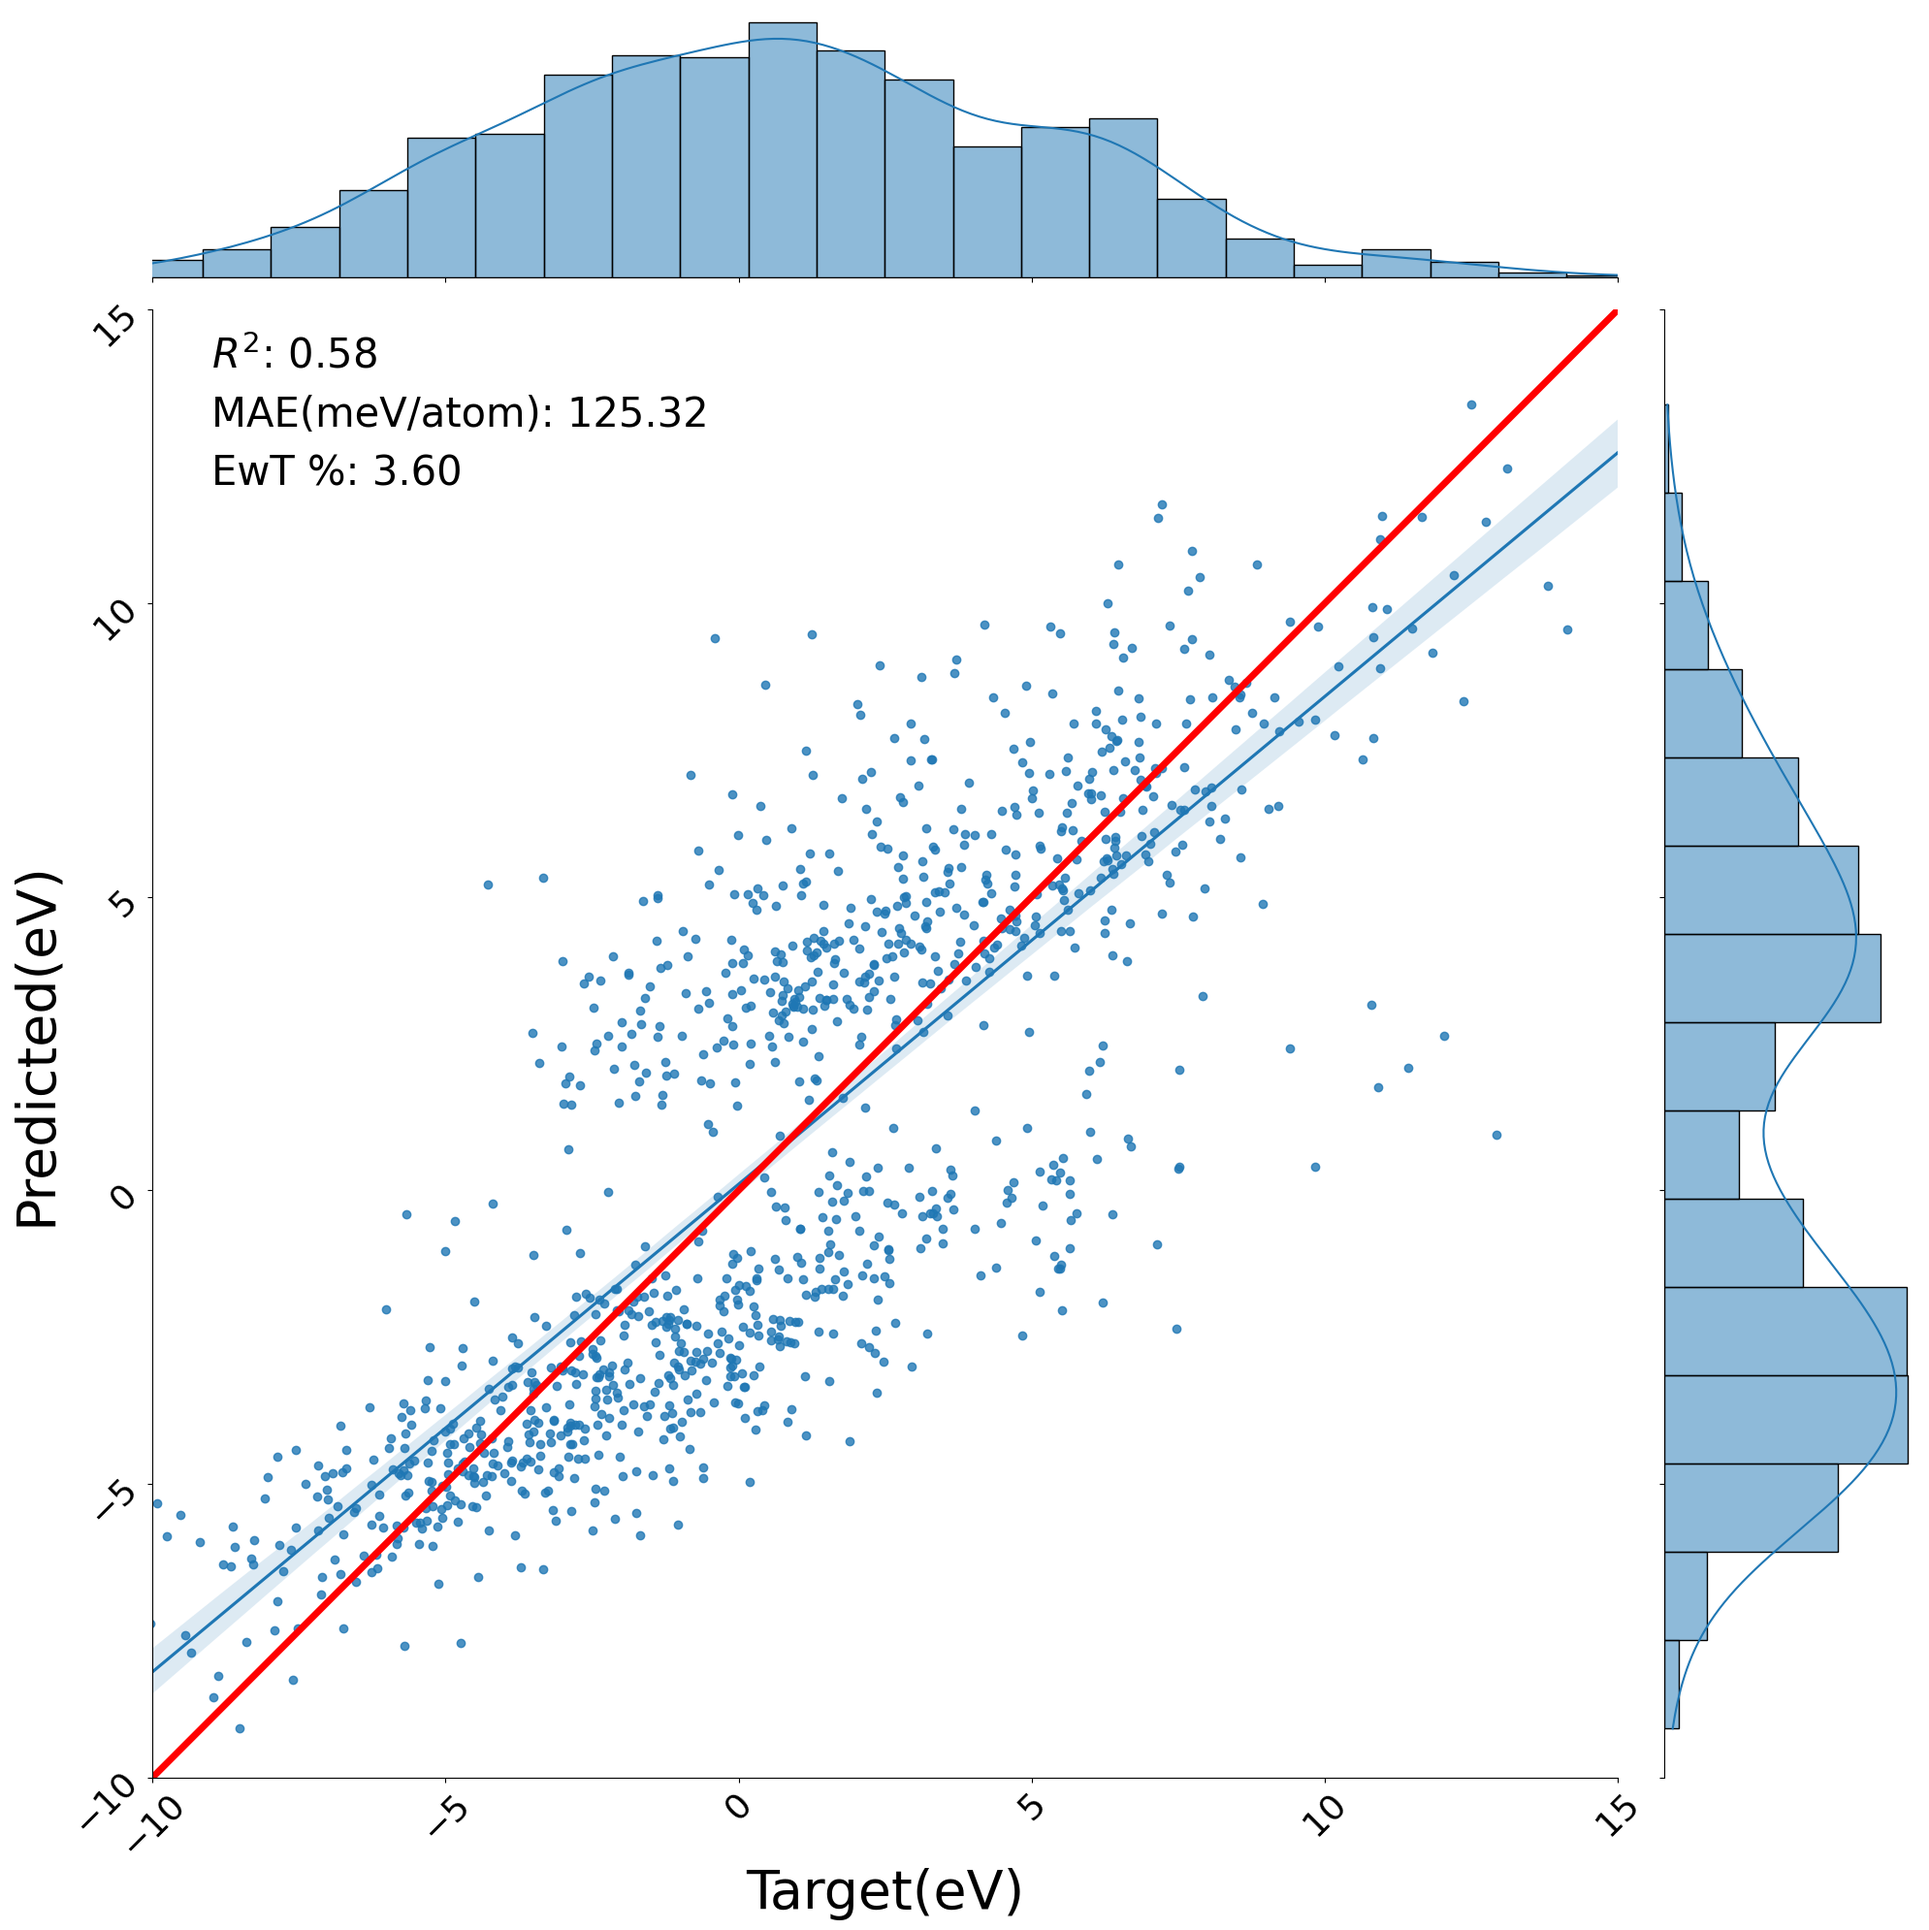
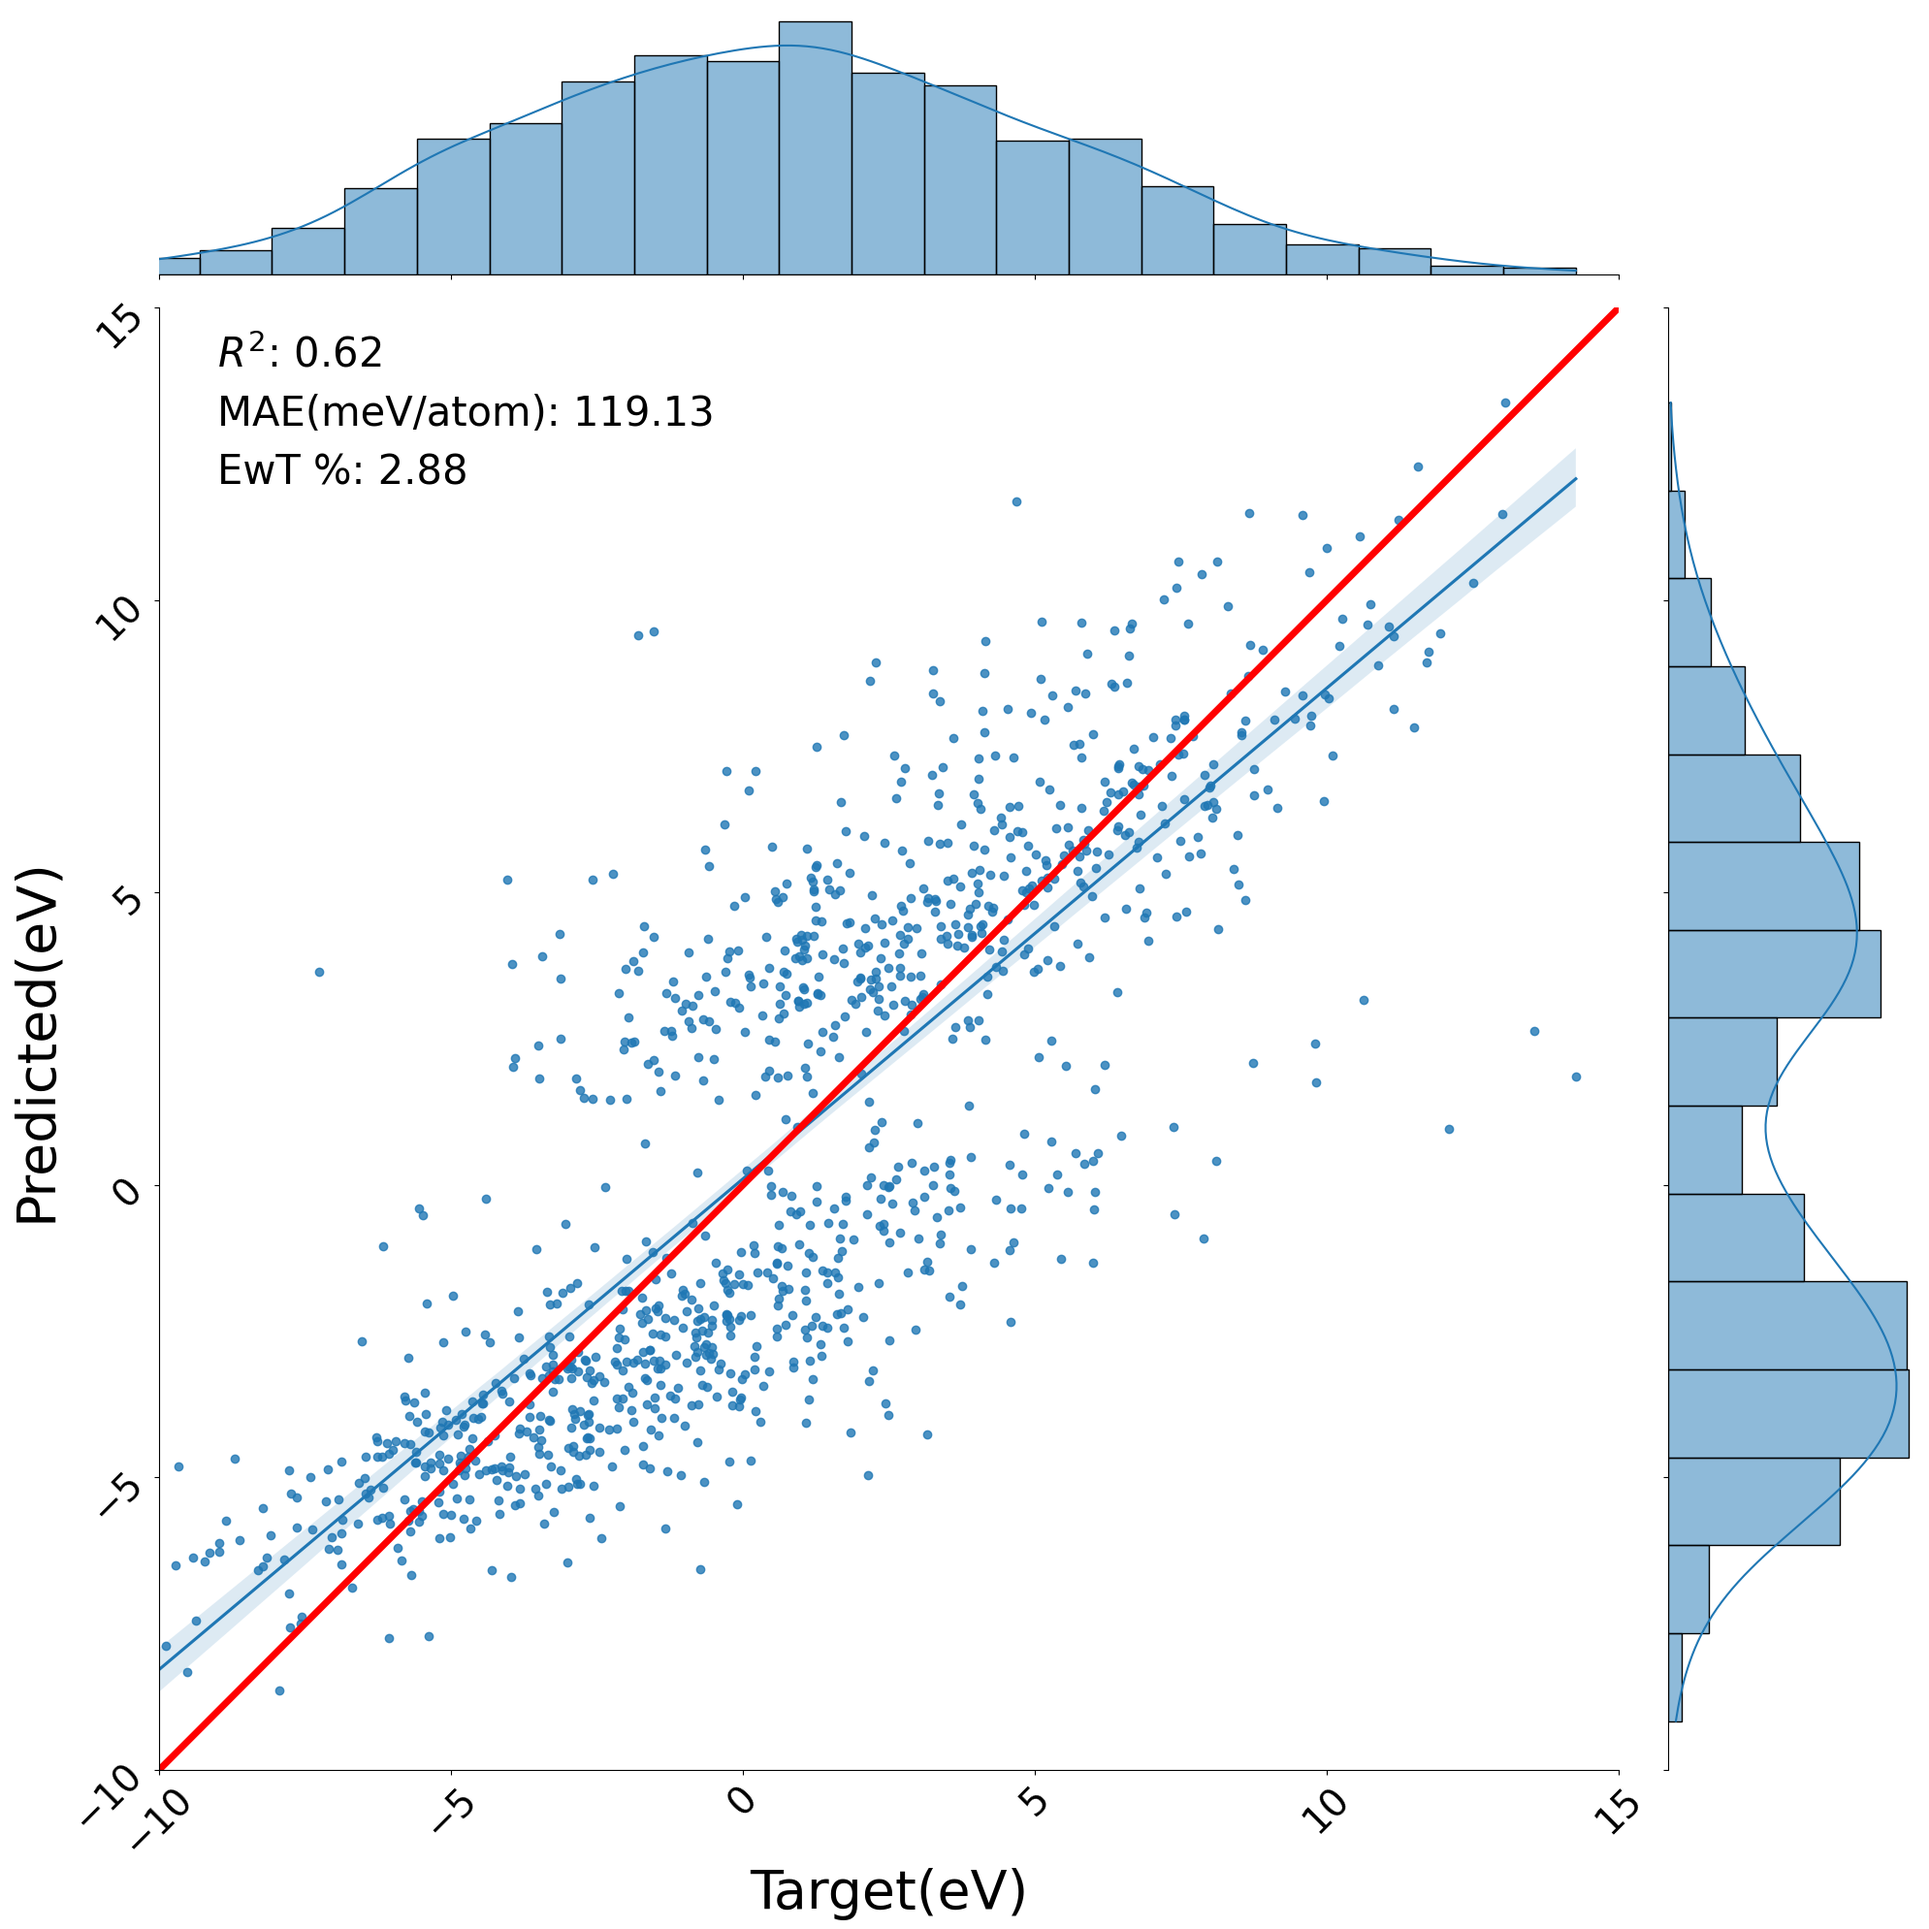
edge dropout + tests + datamodule integration

diff --git a/qtaim_embed/core/datamodule.py b/qtaim_embed/core/datamodule.py
@@ -15,7 +15,7 @@ from qtaim_embed.core.dataset import (
     HeteroGraphGraphLabelClassifierDataset,
 )
 from qtaim_embed.utils.data import train_validation_test_split
-
+from qtaim_embed.data.transforms import DropBondHeterograph
 
 class QTAIMNodeTaskDataModule(pl.LightningDataModule):
     def __init__(
@@ -28,6 +28,20 @@ class QTAIMNodeTaskDataModule(pl.LightningDataModule):
             self.config = get_default_node_level_config()
         else:
             self.config = config
+
+        if "edge_dropout" not in self.config["dataset"].keys():
+            print("... > no edge dropout on datamodule")
+            self.transforms = None
+        elif type(self.config["dataset"]["edge_dropout"]) != float:
+            print("... > no edge dropout on datamodule")
+            self.transforms = None
+        else:
+            if self.config["dataset"]["edge_dropout"] > 0.0: 
+                print("... > using edge dropout on datamodule")
+                self.transforms = DropBondHeterograph(dropout=config["dataset"]["edge_dropout"])
+            else:
+                self.transforms = None
+
 
     def setup(self, stage: str):
         if stage in (None, "fit", "validate"):
@@ -138,17 +152,17 @@ class QTAIMNodeTaskDataModule(pl.LightningDataModule):
 
     def train_dataloader(self):
         return DataLoaderMoleculeNodeTask(
-            self.train_dataset, batch_size=self.config["dataset"]["train_batch_size"]
+            self.train_dataset, batch_size=self.config["dataset"]["train_batch_size"], transforms=self.transforms
         )
 
     def val_dataloader(self):
         return DataLoaderMoleculeNodeTask(
-            self.val_dataset, batch_size=len(self.val_dataset)
+            self.val_dataset, batch_size=len(self.val_dataset), transforms=self.transforms
         )
 
     def test_dataloader(self):
         return DataLoaderMoleculeNodeTask(
-            self.test_dataset, batch_size=len(self.test_dataset)
+            self.test_dataset, batch_size=len(self.test_dataset), transforms=self.transforms
         )
 
 
@@ -164,6 +178,20 @@ class QTAIMGraphTaskDataModule(pl.LightningDataModule):
             self.config = get_default_graph_level_config()
         else:
             self.config = config
+
+        if "edge_dropout" not in self.config["dataset"].keys():
+            print("... > no edge dropout on datamodule")
+            self.transforms = None
+        elif type(self.config["dataset"]["edge_dropout"]) != float:
+            print("... > no edge dropout on datamodule")
+            self.transforms = None
+        else:
+            if self.config["dataset"]["edge_dropout"] > 0.0: 
+                print("... > using edge dropout on datamodule")
+                self.transforms = DropBondHeterograph(dropout=config["dataset"]["edge_dropout"])
+            else:
+                self.transforms = None
+
 
     def setup(self, stage: str):
         if stage in (None, "fit", "validate"):
@@ -288,6 +316,7 @@ class QTAIMGraphTaskDataModule(pl.LightningDataModule):
             batch_size=self.config["dataset"]["train_batch_size"],
             shuffle=True,
             num_workers=self.config["dataset"]["num_workers"],
+            transforms=self.transforms
         )
 
     def val_dataloader(self):
@@ -296,6 +325,7 @@ class QTAIMGraphTaskDataModule(pl.LightningDataModule):
             batch_size=len(self.val_dataset),
             shuffle=False,
             num_workers=self.config["dataset"]["num_workers"],
+            transforms=self.transforms
         )
 
     def test_dataloader(self):
@@ -304,6 +334,7 @@ class QTAIMGraphTaskDataModule(pl.LightningDataModule):
             batch_size=len(self.test_dataset),
             shuffle=False,
             num_workers=self.config["dataset"]["num_workers"],
+            transforms=self.transforms
         )
 
 
@@ -319,6 +350,21 @@ class QTAIMGraphTaskClassifyDataModule(pl.LightningDataModule):
             self.config = get_default_graph_level_config()
         else:
             self.config = config
+        #print(type(self.config["dataset"]["edge_dropout"]))
+        
+        if "edge_dropout" not in self.config["dataset"].keys():
+            print("... > no edge dropout on datamodule")
+            self.transforms = None
+        elif type(self.config["dataset"]["edge_dropout"]) != float:
+            print("... > no edge dropout on datamodule")
+            self.transforms = None
+        else:
+            if self.config["dataset"]["edge_dropout"] > 0.0: 
+                print("... > using edge dropout on datamodule")
+                self.transforms = DropBondHeterograph(dropout=config["dataset"]["edge_dropout"])
+            else:
+                self.transforms = None
+
 
     def setup(self, stage: str):
         if stage in (None, "fit", "validate"):
@@ -432,6 +478,7 @@ class QTAIMGraphTaskClassifyDataModule(pl.LightningDataModule):
             batch_size=self.config["dataset"]["train_batch_size"],
             shuffle=True,
             num_workers=self.config["dataset"]["num_workers"],
+            transforms=self.transforms
         )
 
     def val_dataloader(self):
@@ -440,6 +487,7 @@ class QTAIMGraphTaskClassifyDataModule(pl.LightningDataModule):
             batch_size=len(self.val_dataset),
             shuffle=False,
             num_workers=self.config["dataset"]["num_workers"],
+            transforms=self.transforms
         )
 
     def test_dataloader(self):
@@ -448,4 +496,5 @@ class QTAIMGraphTaskClassifyDataModule(pl.LightningDataModule):
             batch_size=len(self.test_dataset),
             shuffle=False,
             num_workers=self.config["dataset"]["num_workers"],
+            transforms=self.transforms
         )

diff --git a/qtaim_embed/data/dataloader.py b/qtaim_embed/data/dataloader.py
@@ -8,15 +8,18 @@ class DataLoaderMoleculeNodeTask(DataLoader):
     This assumes a heterograph dataset
     """
 
-    def __init__(self, dataset, **kwargs):
+    def __init__(self, dataset, transforms=None, **kwargs):
         if "collate_fn" in kwargs:
             raise ValueError(
                 "'collate_fn' provided internally', you need not to provide one"
             )
+        self.transforms = transforms
 
         def collate(samples):
             graphs = samples
             batched_graphs = dgl.batch(graphs)
+            if self.transforms is not None:
+                batched_graphs = self.transforms(batched_graphs)
             # batched_labels = [graph.ndata["labels"] for graph in graphs]
             batched_labels = batched_graphs.ndata["labels"]
             return batched_graphs, batched_labels
@@ -32,15 +35,19 @@ class DataLoaderMoleculeGraphTask(DataLoader):
     This assumes a heterograph dataset
     """
 
-    def __init__(self, dataset, **kwargs):
+    def __init__(self, dataset, transforms=None, **kwargs):
         if "collate_fn" in kwargs:
             raise ValueError(
                 "'collate_fn' provided internally', you need not to provide one"
             )
+        
+        self.transforms = transforms
 
         def collate(samples):
             graphs = samples
             batched_graphs = dgl.batch(graphs)
+            if self.transforms is not None:
+                batched_graphs = self.transforms(batched_graphs)
             # batched_labels = [graph.ndata["labels"] for graph in graphs]
             batched_labels = batched_graphs.ndata["labels"]
             return batched_graphs, batched_labels

diff --git a/qtaim_embed/data/transforms.py b/qtaim_embed/data/transforms.py
@@ -1,0 +1,40 @@
+import torch 
+from dgl.transforms import BaseTransform
+from torch.distributions import Bernoulli
+
+
+class DropBondHeterograph(BaseTransform):
+    r"""Randomly drop edges, as described in
+    `DropEdge: Towards Deep Graph Convolutional Networks on Node Classification
+    <https://arxiv.org/abs/1907.10903>`__ and `Graph Contrastive Learning with Augmentations
+    <https://arxiv.org/abs/2010.13902>`__.
+
+    Takes
+    ----------
+    p : float, optional
+        Probability of an edge to be dropped.
+    drop_node_type : list, optional
+        list of node types to drop
+    drop_edge_types : list, optional
+        list of edge types to drop that correspond to the node types in drop_node_type
+
+    """
+
+    def __init__(self, p=0.5, drop_node_type=["bond"], drop_edge_types=["a2b", "b2a", "g2b", "b2g", "b2b"]):
+        self.p = p
+        self.dist = Bernoulli(p)
+        self.drop_node_type = drop_node_type
+        self.drop_edge_types = drop_edge_types
+
+    def __call__(self, g):
+        g = g.clone()
+        # Fast path
+        if self.p == 0:
+            return g
+        
+        for c_etype in self.drop_node_type:
+            samples = self.dist.sample(torch.Size([g.num_nodes(c_etype)]))
+            node_ids_to_remove = g.nodes(ntype=c_etype)[samples.bool()]
+            g.remove_nodes(node_ids_to_remove, ntype=c_etype)
+
+        return g

diff --git a/tests/test_core.py b/tests/test_core.py
@@ -99,6 +99,8 @@ def test_node_datamodule():
     config["dataset"]["allowed_spins"] = [1, 2, 3]
     config["dataset"]["train_dataset_loc"] = "./data/labelled_spin_charge.pkl"
     config["dataset"]["extra_keys"]["global"] = ["charge", "spin"]
+    config["dataset"]["edge_dropout"] = None
+
     print(config)
     dm = QTAIMNodeTaskDataModule(config=config)
     #print(dm.config)
@@ -121,6 +123,8 @@ def test_graph_datamodule():
     config_w_test = get_default_graph_level_config()
     config_w_test["dataset"]["val_prop"] = 0.15
     config_w_test["dataset"]["test_prop"] = 0.1
+    config_w_test["dataset"]["edge_dropout"] = None
+
     dm = QTAIMGraphTaskClassifyDataModule()
 
     feature_size, feat_name = dm.prepare_data("fit")
@@ -141,3 +145,5 @@ def test_graph_datamodule():
     assert val_dl_size == val_dl_size_no_test - 10, "Val size mismatch"
 
 
+test_graph_datamodule()
+test_node_datamodule()

diff --git a/tests/test_transforms.py b/tests/test_transforms.py
@@ -1,0 +1,29 @@
+import torch 
+import dgl
+
+from qtaim_embed.data.dataloader import DataLoaderMoleculeNodeTask
+from qtaim_embed.data.transforms import DropBondHeterograph
+from qtaim_embed.utils.tests import get_dataset_graph_level
+
+def test_edge_dropout():
+
+    drop_edge = DropBondHeterograph(p=0.8)
+
+    dataset_graph_level = get_dataset_graph_level(
+        log_scale_features=True,
+        log_scale_targets=False,
+        standard_scale_features=True,
+        standard_scale_targets=True,
+    )
+
+    batch_loader = DataLoaderMoleculeNodeTask(
+        dataset=dataset_graph_level,
+        transforms=drop_edge,
+        shuffle=False,
+    )
+
+    for ind, batch in enumerate(batch_loader):
+        assert dataset_graph_level.graphs[ind].num_nodes(ntype='bond') > batch[0].num_nodes(ntype='bond')
+    
+
+test_edge_dropout()

diff --git a/qtaim_embed/utils/data.py b/qtaim_embed/utils/data.py
@@ -74,6 +74,7 @@ def get_default_graph_level_config():
             "standard_scale_features": True,
             "standard_scale_targets": True,
             "val_prop": 0.15,
+            "edge_dropout": 0.0,  
             "test_prop": 0.1,
             "seed": 42,
             "train_batch_size": 128,
